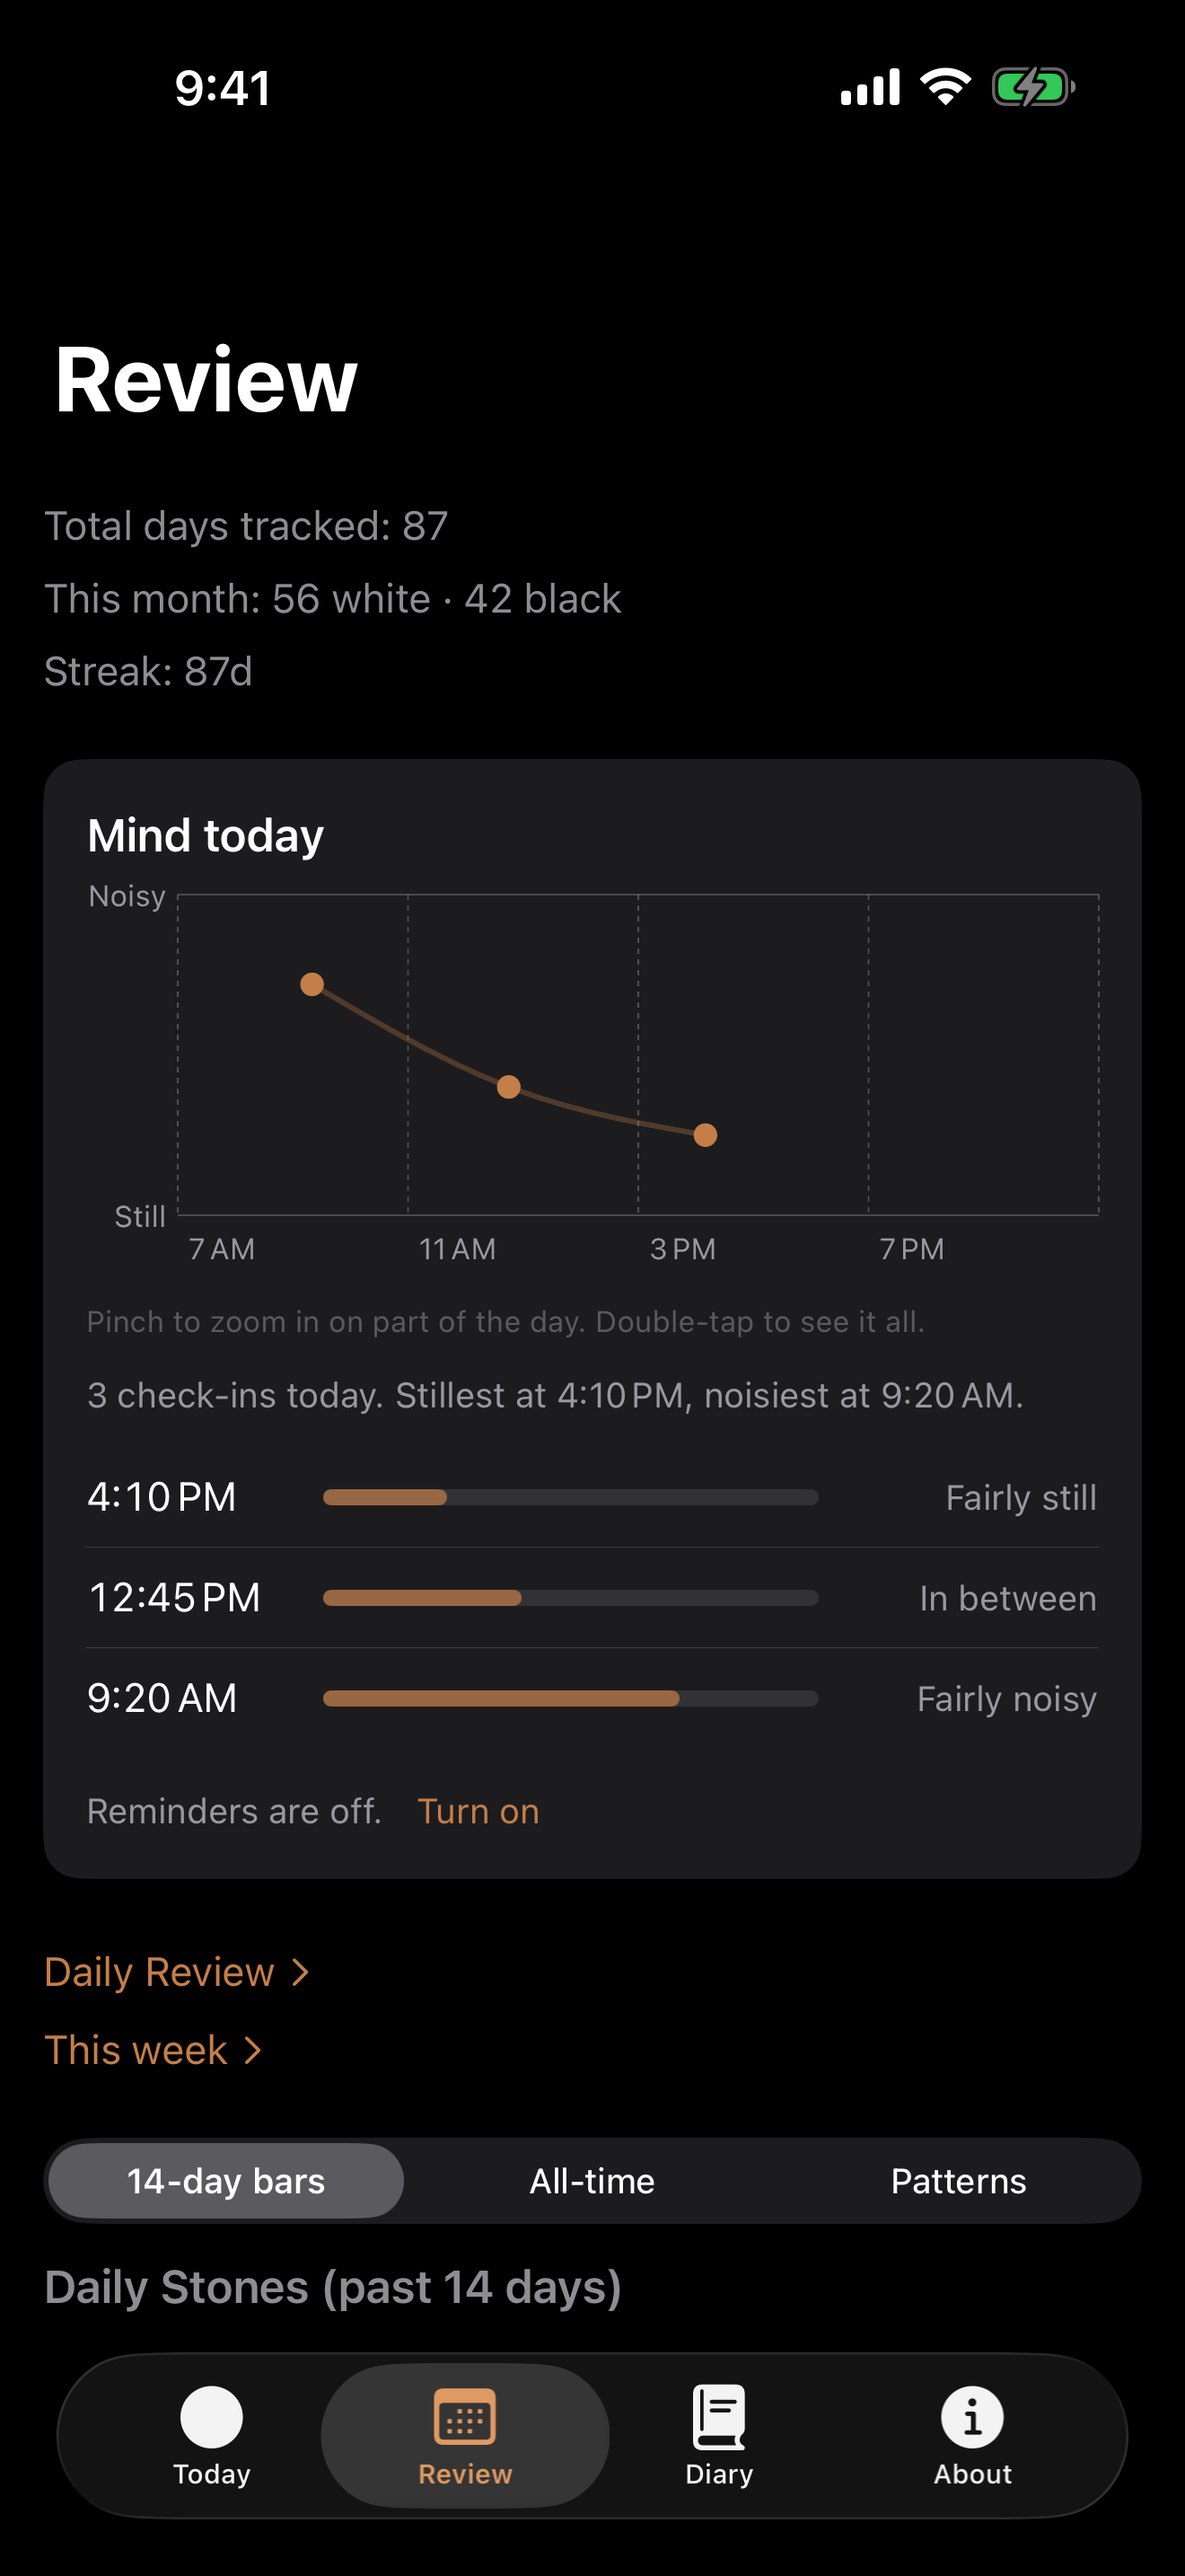
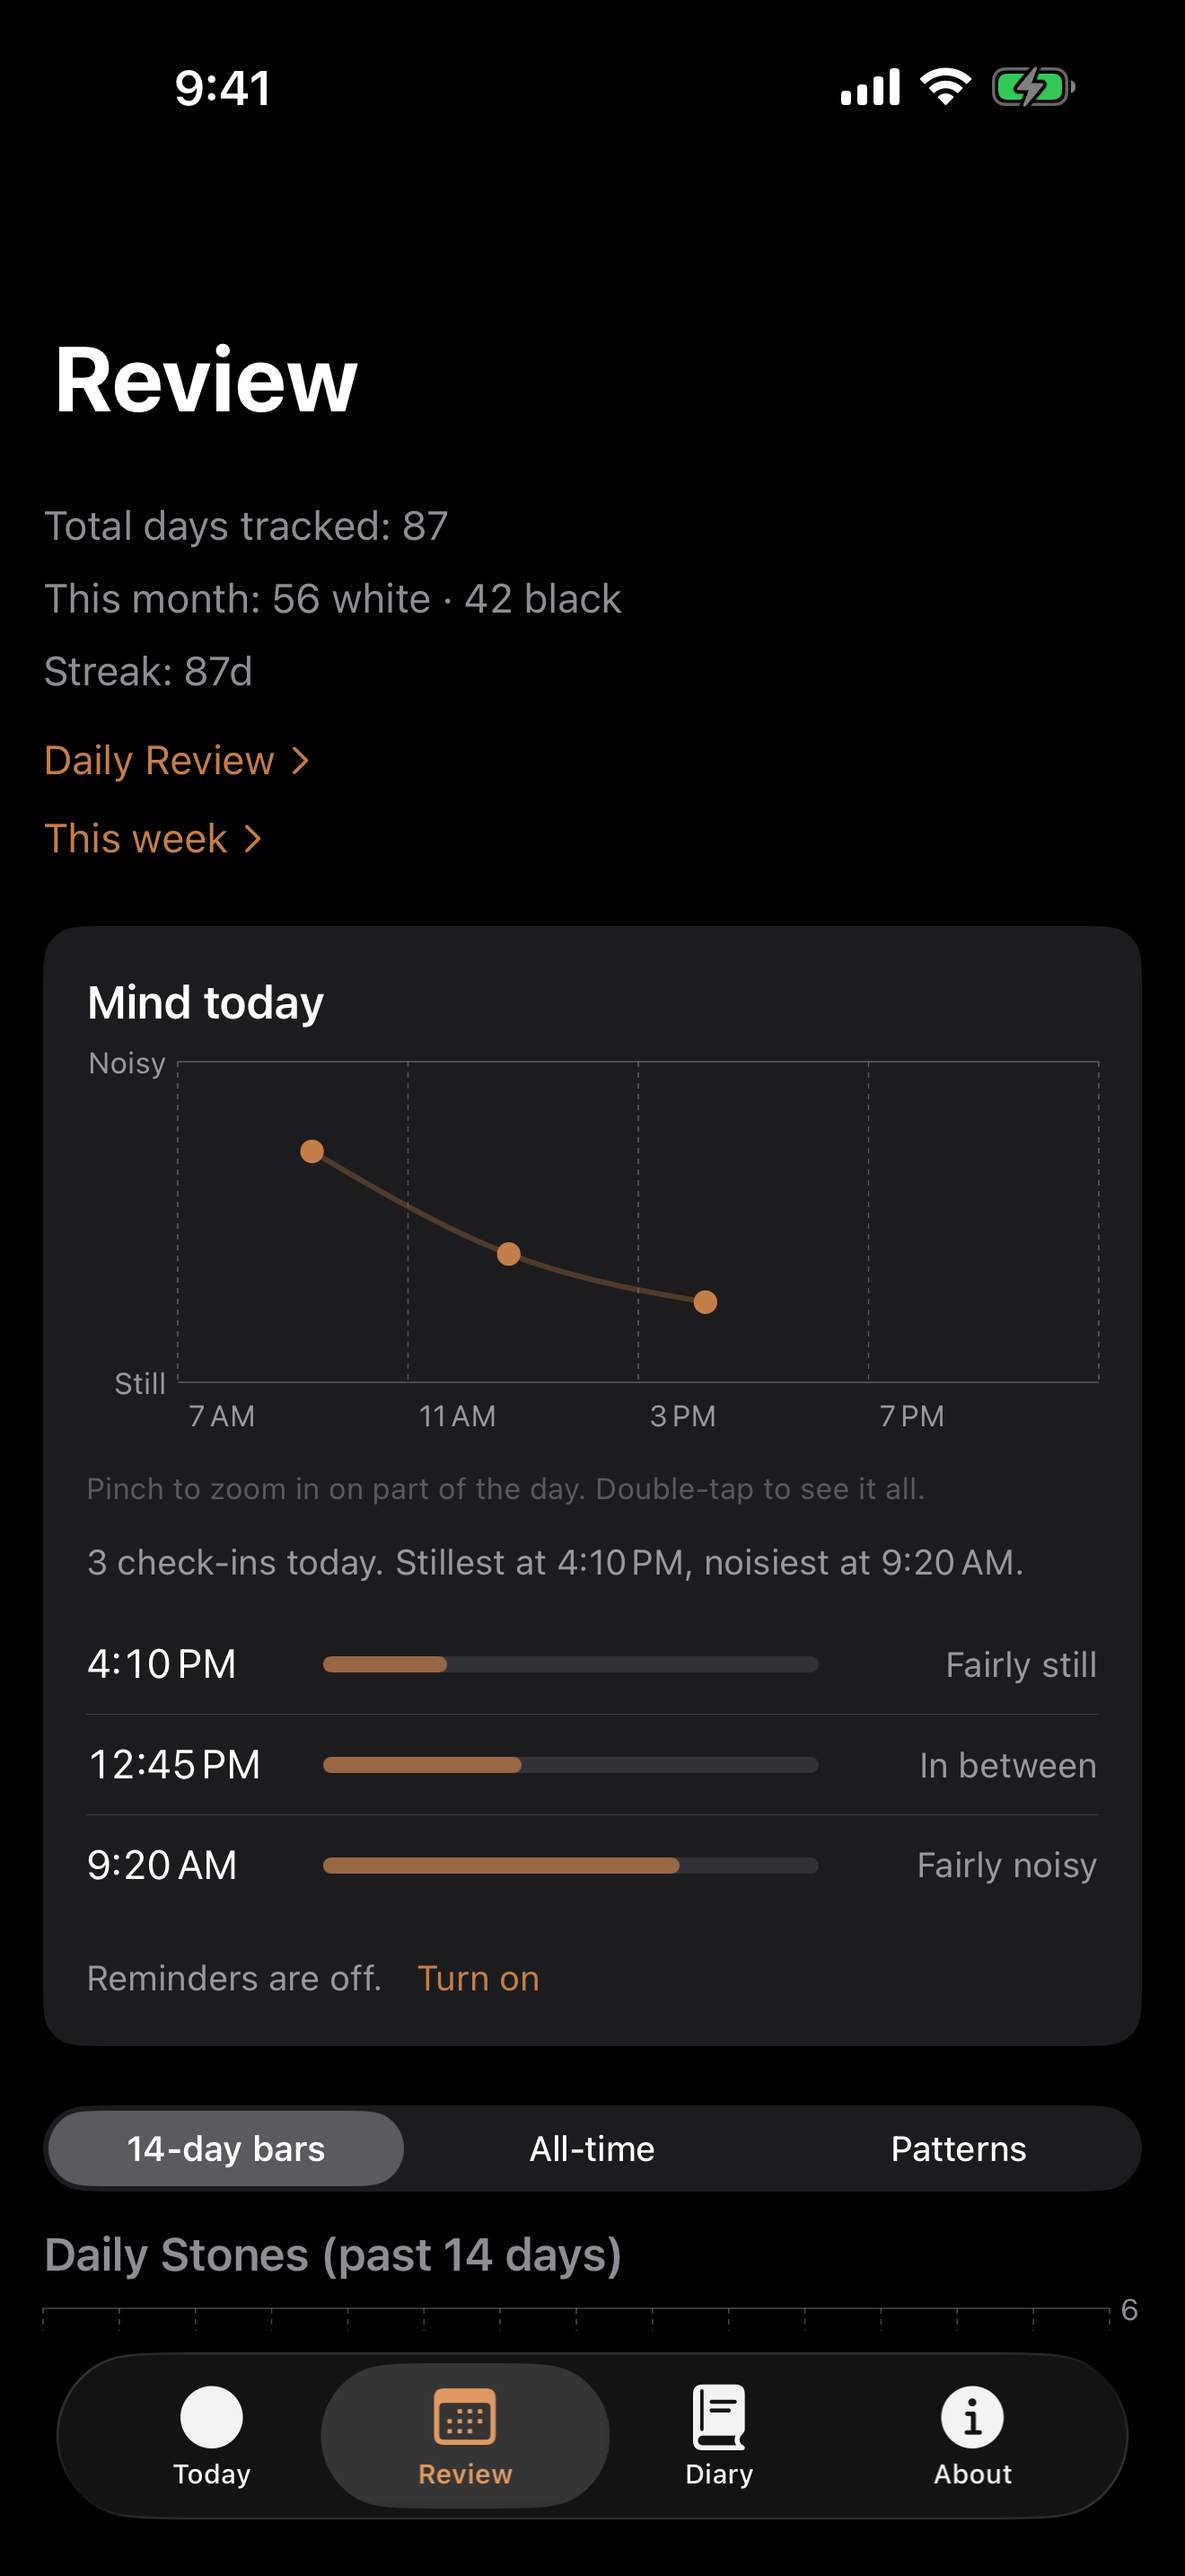
Review: Daily Review and This week links move up under the stats line
Claude-Session: https://claude.ai/code/session_01UsxqVW7qCCEWQFwtpaiD9F

diff --git a/DhammaDiary/Views/Review/ReviewView.swift b/DhammaDiary/Views/Review/ReviewView.swift
@@ -141,13 +141,16 @@ struct ReviewView: View {
         ZStack {
             ScrollView {
                 VStack(spacing: 22) {
-                    // The running totals first, just under the title (PJ, 29 Nov).
-                    statStrip
+                    // The running totals and the two look-backs first, just
+                    // under the title (PJ, 29 Nov).
+                    VStack(alignment: .leading, spacing: 10) {
+                        statStrip
+                        reviewLinks
+                    }
                     if isSunday {
                         weekLookBackCard
                     }
                     MindReviewSection(day: DateHelpers.currentReflectionDay)
-                    reviewLinks
                     secondarySection
                     Divider()
                         .frame(maxWidth: 260)
@@ -243,7 +246,7 @@ struct ReviewView: View {
         .padding(.horizontal)
     }
 
-    /// Daily Review and (except on Sundays) This week, below Mind today.
+    /// Daily Review and (except on Sundays) This week, under the stats line.
     private var reviewLinks: some View {
         VStack(alignment: .leading, spacing: 6) {
             // Spec 10: the day so far, every day including Sundays.

diff --git a/docs/spec/v1.md b/docs/spec/v1.md
@@ -179,7 +179,7 @@ The tab is available at any time of day. There's no time-based switching and no 
 *From: what changes in Review, About and onboarding.*
 
 - Journal entries take the place of reflections. The calendar marks reflection days that have an entry. The selected day shows its stones, then its entry: reference and title, the question as shown that day, and the text. Tapping the entry opens it, with a way through to that passage in Passages.
-- The stats line ("Total days tracked · This month · Streak"), the 14-day bars, the all-time chart and the pattern notes are unchanged and about stones only, including the streak count. They group by reflection day (3.1). The stats line sits at the top of Review, just under the title and above Mind today (PJ, 29 Nov 2026).
+- The stats line ("Total days tracked · This month · Streak"), the 14-day bars, the all-time chart and the pattern notes are unchanged and about stones only, including the streak count. They group by reflection day (3.1). The stats line sits at the top of Review, just under the title, followed by the Daily Review and This week links, then Mind today (PJ, 29 Nov 2026).
 - In the Review tour, the button "Continue to Reflections" becomes "Continue to Diary".
 
 ### 4.4 About
@@ -232,7 +232,7 @@ Questions use British spelling; Sujato's text keeps its American spelling.
 *From: app identity and App Store listing.*
 
 - **Price:** free, no in-app purchases.
-- **Category:** Lifestyle (secondary: Health & Fitness).
+- **Category:** Lifestyle only (no secondary category; Health & Fitness was dropped on 29 Nov 2026 so the mind check-ins aren't read as a health claim).
 - **Subtitle:** "Daily sutta reflection journal".
 - **Privacy label:** "Data Not Collected".
 - **Privacy policy:** adapt `docs/privacy-policy.md` (inherited from White Stone):
@@ -293,7 +293,7 @@ The aim is for the app to be in view at the right moment and easy to start, with
 
 ### 8.3 The week's look-back (idea 9)
 - **Week:** Monday to Sunday, in reflection days (3.1), containing the current reflection day.
-- **Where:** on Sundays, Tonight shows a "Look back on this week" link below Save. Review has a "This week" link below Mind today, so the page can be reached any day.
+- **Where:** on Sundays, Tonight shows a "Look back on this week" link below Save. Review has a "This week" link under the stats line, so the page can be reached any day.
 - **The page**, titled "This week", with the date range (e.g. "9–15 November"):
   - the week's stones: "9 white · 4 black", and the roots with counts, most frequent first;
   - one row per day from Monday up to the current day: the day, its white and black stone counts if any, and, if there's an entry, the passage reference and title and the entry's first line. Tapping an entry opens it.
@@ -442,7 +442,7 @@ A full CarPlay app needs an Apple entitlement in a category this app doesn't fit
 Trello: "Dhamma Diary: Daily Review (stones dropped into your hand, then the day so far)". A quiet look at the day so far: the current reflection day (3am boundary).
 
 ### 10.1 Where
-- Review gets a **"Daily Review ›"** link just above **"This week ›"**, below Mind today. On Sundays, when "This week" gives way to the card at the top, Daily Review stays there on its own. (The two links were under the stats line until the stats line moved to the top, 29 Nov 2026.)
+- Review gets a **"Daily Review ›"** link just above **"This week ›"**, under the stats line at the top of Review. On Sundays, when "This week" gives way to the card at the top, Daily Review stays there on its own. (Both moved to the top with the stats line, 29 Nov 2026.)
 - It opens a screen titled **"Daily Review"**.
 
 ### 10.2 The stones fall

diff --git a/docs/session-notes/2026-11-29-review-stats-top.md b/docs/session-notes/2026-11-29-review-stats-top.md
@@ -8,6 +8,10 @@ PJ (29 Nov 2026, screenshot IMG_3526 marked in red): move "Total days tracked / 
 - The "Daily Review ›" and "This week ›" links move into a new `reviewLinks`, which stays where they were: below Mind today. PJ boxed only the three figures, so the links didn't move with them.
 - Spec 8.2, 8.3, 10.1 and 10.4 updated to match.
 
+## Follow-up
+
+PJ: put the Daily Review and This week links below Streak and above Mind today. They now sit with the stats line at the top (`statStrip` then `reviewLinks`, 10pt apart). On Sundays the "Look back on this week" card follows them, before Mind today.
+
 ## Verification
 
 - Tests: 109 passed.

diff --git a/docs/blog-drafts/2026-11-29-review-stats-top.md b/docs/blog-drafts/2026-11-29-review-stats-top.md
@@ -1,5 +1,5 @@
 # Review leads with the totals
 
-Review now opens with the running totals (days tracked, this month's white and black stones, the streak) just under the title, before Mind today. The Daily Review and This week links stay below the mind chart.
+Review now opens with the running totals (days tracked, this month's white and black stones, the streak) just under the title, before Mind today. The Daily Review and This week links follow straight after, so everything that looks back sits together at the top.
 
 ![Review with the stats line at the top](../session-artifacts/2026-11-29-review-stats-top-01.png)
